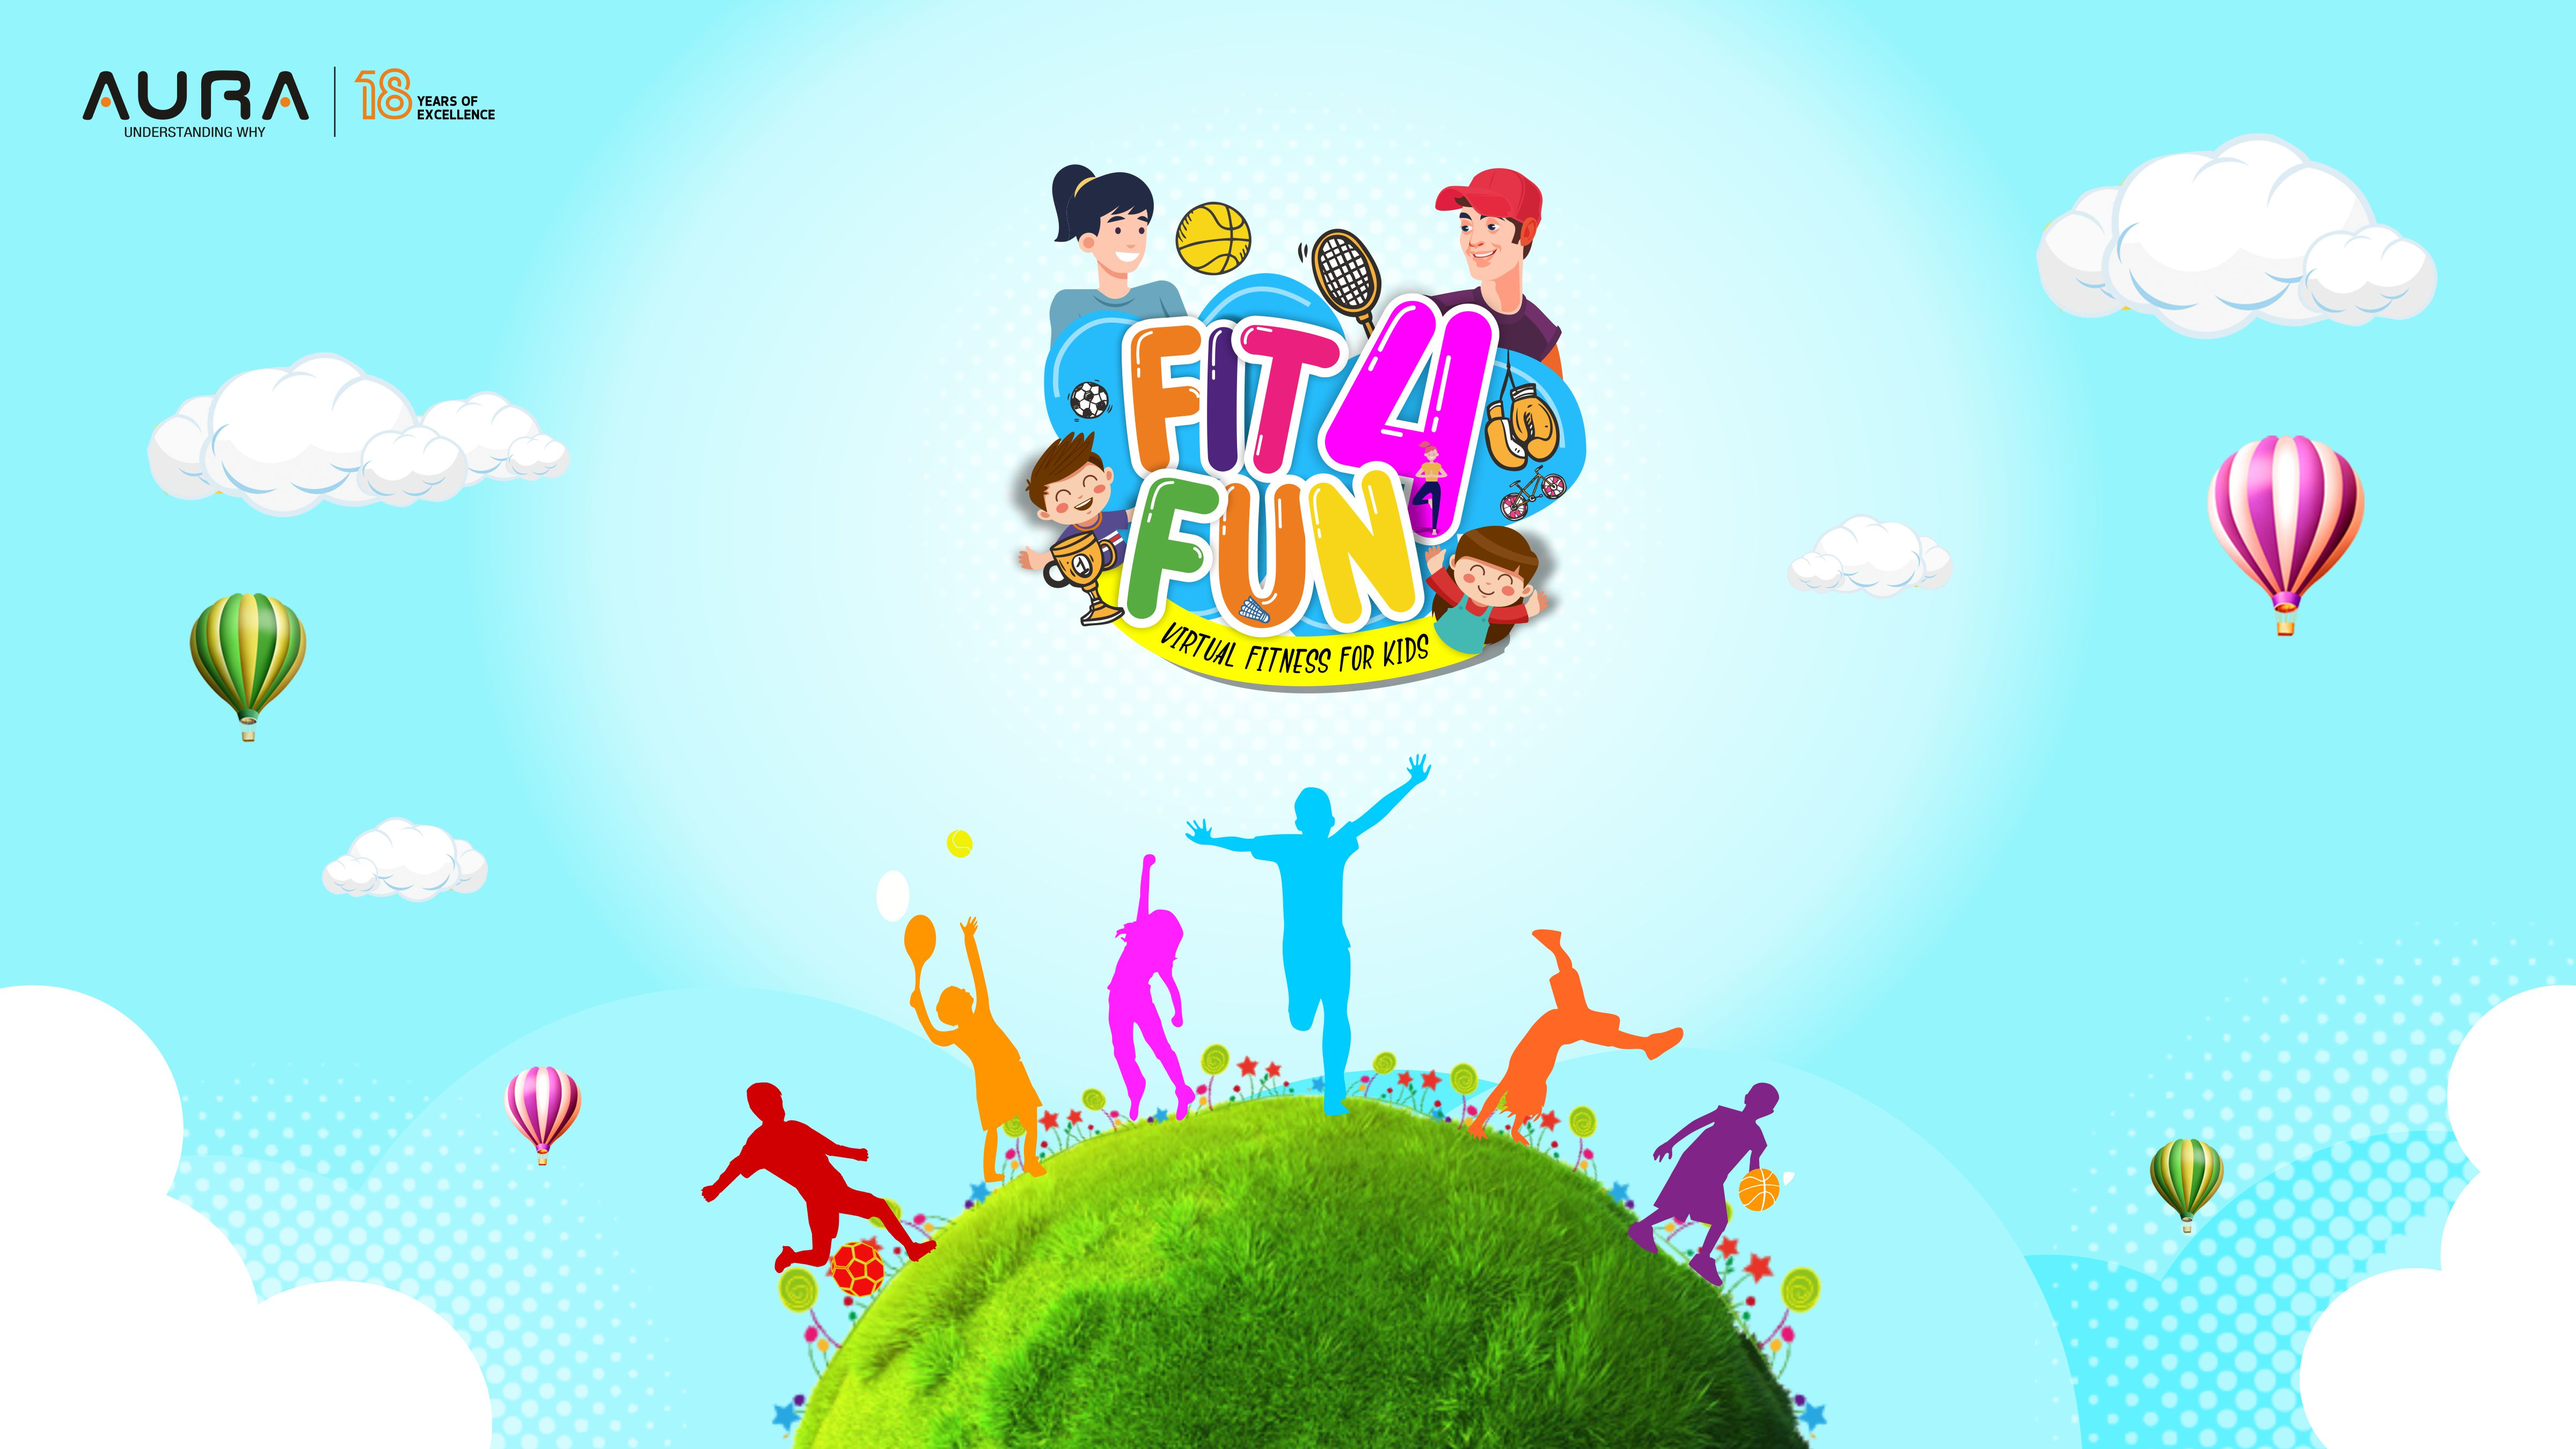
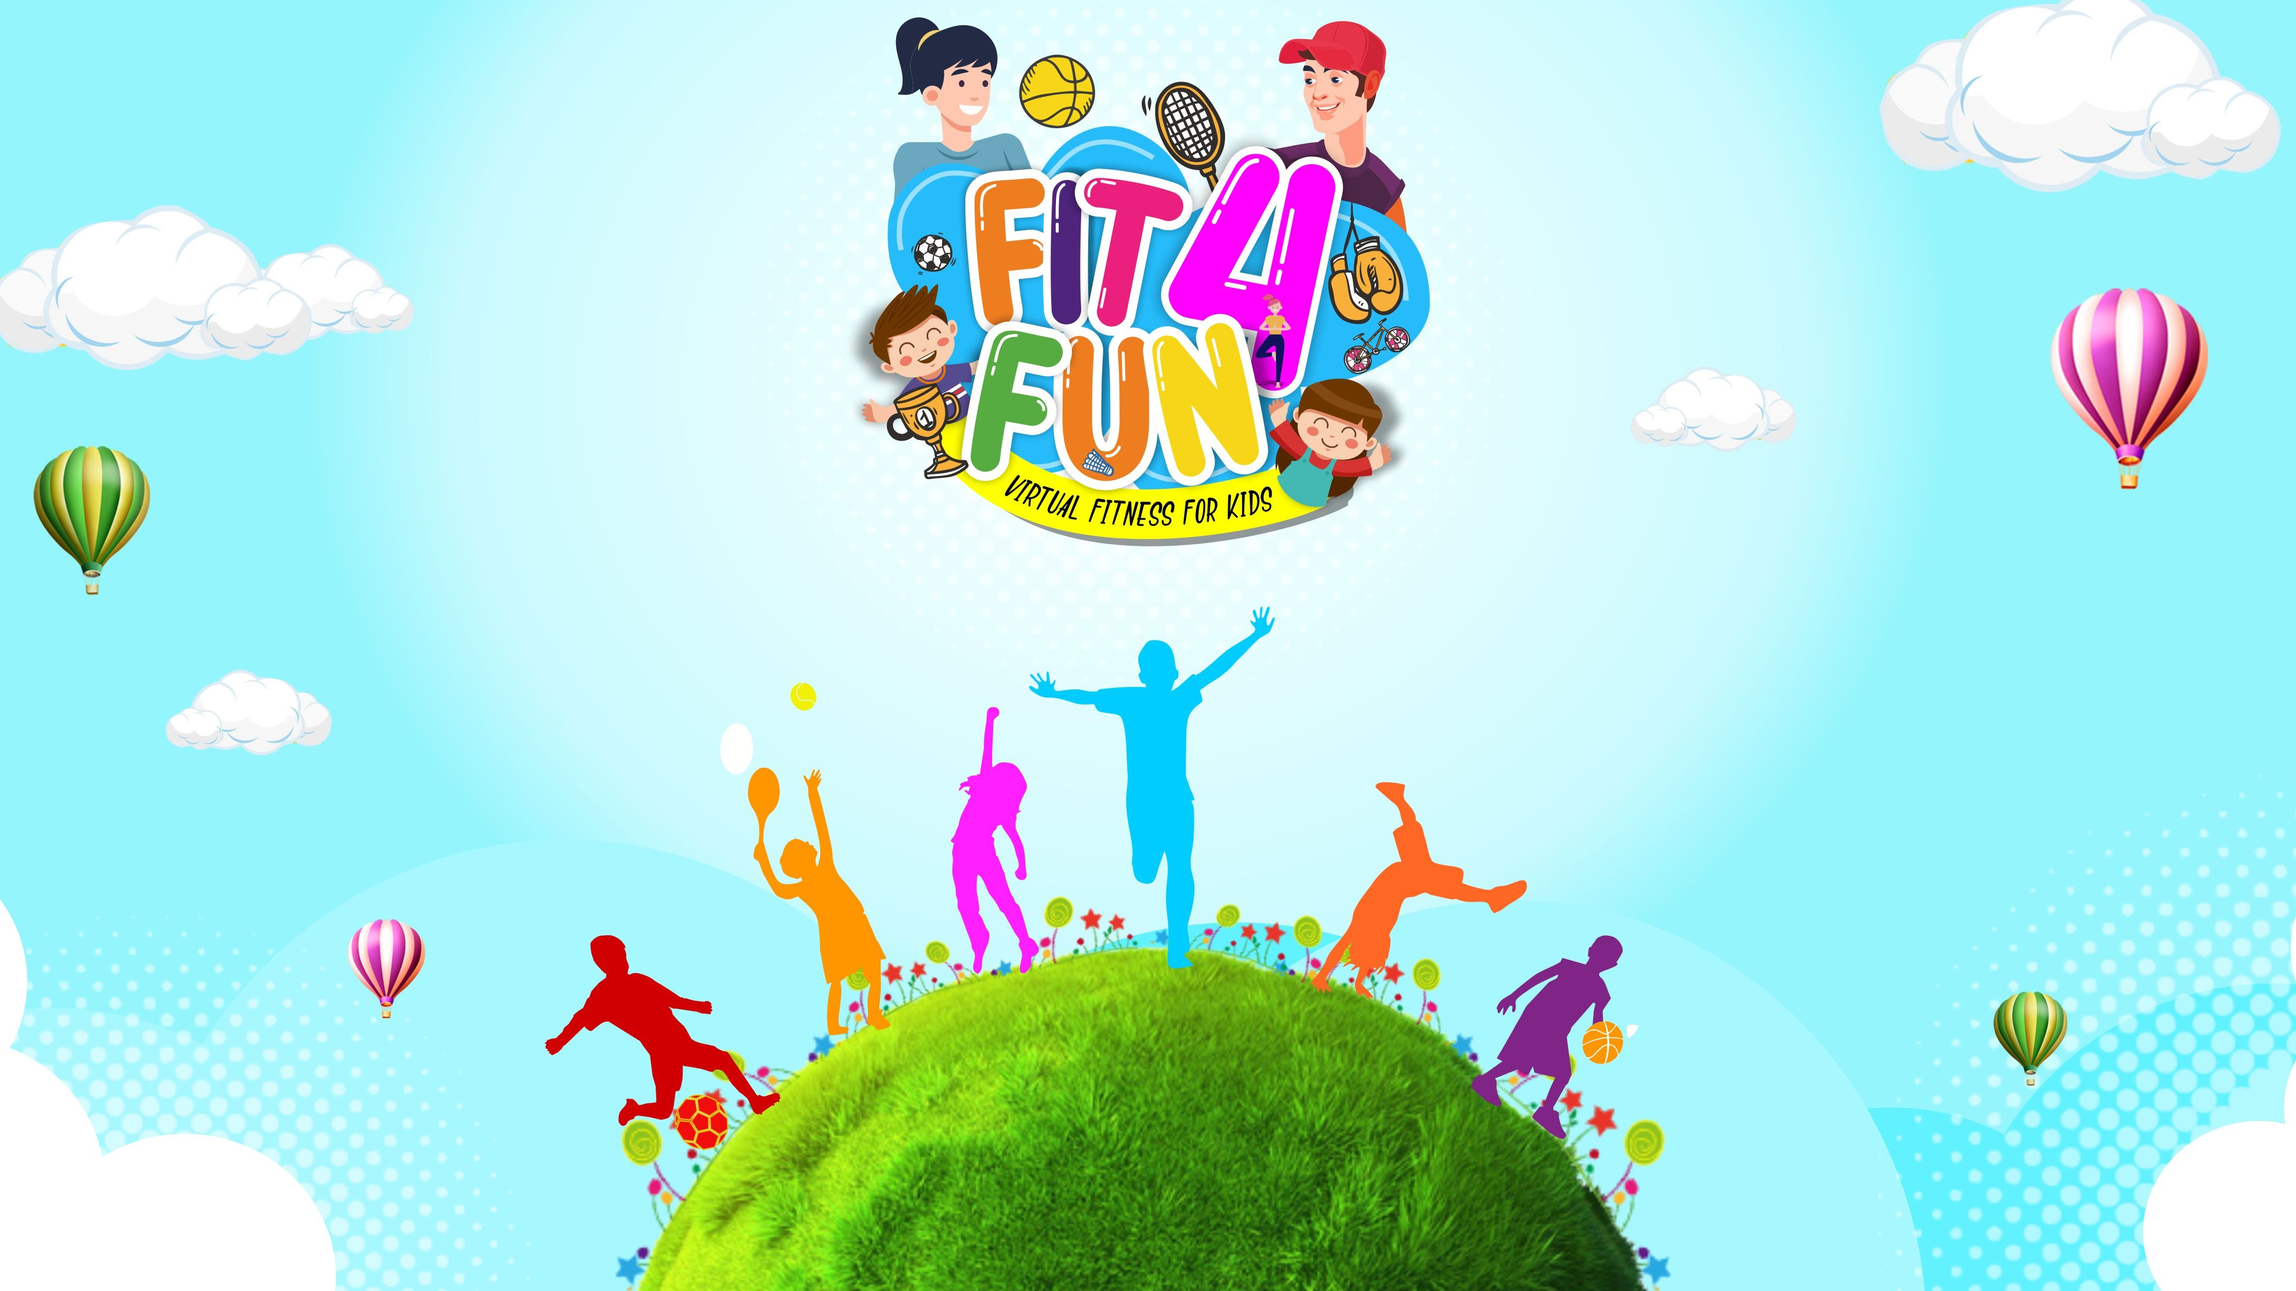
colour figured out

diff --git a/event/css/style.css b/event/css/style.css
@@ -5,7 +5,7 @@ Author: yaminncco
 Colors:
 	Body 		  : #444
 	Headers 	: #0b0f28
-	Primary 	: #dd0a37
+	Primary 	: #03a9f4
 	Dark 		  : #000
 	Grey 		  : #F9F9FA #DADADA
 
@@ -78,7 +78,7 @@ a {
 a:hover, a:focus {
   text-decoration: none;
   outline: none;
-  color: #dd0a37;
+  color: #03a9f4;
 }
 
 ul, ol {
@@ -90,7 +90,7 @@ ul, ol {
 .main-btn {
   display: inline-block;
   padding: 14px 50px;
-  background: #dd0a37;
+  background: #03a9f4;
   color: #FFF;
   text-transform: uppercase;
   border: none;
@@ -120,7 +120,7 @@ textarea.input {
 }
 
 .input:focus {
-  border-color: #dd0a37;
+  border-color: #03a9f4;
 }
 
 /*----------------------------*\
@@ -287,16 +287,16 @@ textarea.input {
   bottom: -3px;
   width: 100%;
   left: 0;
-  background: #dd0a37;
+  background: #03a9f4;
 }
 
 .main-nav li a:hover, .main-nav li a:focus {
   background-color: transparent;
-  color: #dd0a37;
+  color: #03a9f4;
 }
 
 #header.transparent-navbar .main-nav li a:hover {
-  color: #dd0a37;
+  color: #03a9f4;
 }
 
 .navbar-toggle {
@@ -340,7 +340,7 @@ textarea.input {
     color: #0b0f28;
   }
   .main-nav li a:hover, .main-nav li a:focus, .main-nav li.active a {
-    background-color: #dd0a37;
+    background-color: #03a9f4;
     color: #fff !important;
   }
   .navbar-toggle {
@@ -401,7 +401,7 @@ textarea.input {
 .number h3 {
   font-size: 42px;
   margin-bottom: 0px;
-  color: #dd0a37;
+  color: #03a9f4;
 }
 
 .number p {
@@ -451,7 +451,7 @@ textarea.input {
   -ms-transform: translateY(-50%);
   transform: translateY(-50%);
   background: transparent;
-  color: #dd0a37;
+  color: #03a9f4;
   width: 90px;
   height: 90px;
   line-height: 90px;
@@ -514,7 +514,7 @@ textarea.input {
 .speaker .speaker-content {
   position: relative;
   padding: 30px;
-  background: #dd0a37;
+  background: #03a9f4;
   text-align: right;
   z-index: 20;
 }
@@ -546,7 +546,7 @@ textarea.input {
   line-height: 40px;
   text-align: center;
   color: #FFF;
-  background: #dd0a37;
+  background: #03a9f4;
   z-index: 15;
   -webkit-transition: 0.3s opacity;
   transition: 0.3s opacity;
@@ -593,7 +593,7 @@ textarea.input {
   height: 60px;
   line-height: 60px;
   text-align: center;
-  background-color: #dd0a37 !important;
+  background-color: #03a9f4 !important;
   border-radius: 50%;
   padding: 0;
   color: #FFF;
@@ -621,7 +621,7 @@ textarea.input {
 }
 
 .speaker-modal .speaker-modal-content .speaker-job {
-  color: #dd0a37;
+  color: #03a9f4;
 }
 
 .speaker-modal .speaker-modal-content .speaker-social {
@@ -637,7 +637,7 @@ textarea.input {
   text-align: center;
   font-size: 14px;
   border-radius: 50%;
-  background: #dd0a37;
+  background: #03a9f4;
   color: #fff;
   margin-right: 5px;
   -webkit-transition: 0.3s opacity;
@@ -663,7 +663,7 @@ textarea.input {
 }
 
 .speaker-modal .speaker-modal-content .speaker-events .speaker-event>span strong {
-  color: #dd0a37;
+  color: #03a9f4;
 }
 
 /*=========================================================
@@ -685,7 +685,7 @@ textarea.input {
   top: 0px;
   bottom: 0px;
   width: 4px;
-  background-color: #dd0a37;
+  background-color: #03a9f4;
 }
 
 .event:last-child:after {
@@ -699,7 +699,7 @@ textarea.input {
   height: 60px;
   top: -60px;
   width: 4px;
-  background-color: #dd0a37;
+  background-color: #03a9f4;
 }
 
 .event .event-day {
@@ -709,7 +709,7 @@ textarea.input {
   width: 120px;
   height: 120px;
   border-radius: 50%;
-  background: #dd0a37;
+  background: #03a9f4;
   z-index: 10;
 }
 
@@ -720,7 +720,7 @@ textarea.input {
   width: 30px;
   height: 30px;
   border-radius: 50%;
-  background: #dd0a37;
+  background: #03a9f4;
   z-index: 10;
   -webkit-transform: translateX(-50%);
   -ms-transform: translateX(-50%);
@@ -763,11 +763,11 @@ textarea.input {
 }
 
 .event .event-time i {
-  color: #dd0a37;
+  color: #03a9f4;
 }
 
 .event .event-content a {
-  color: #dd0a37;
+  color: #03a9f4;
 }
 
 .download-btn {
@@ -809,7 +809,7 @@ textarea.input {
 }
 
 .contact h3 {
-  color: #dd0a37;
+  color: #03a9f4;
 }
 
 #map {
@@ -841,7 +841,7 @@ textarea.input {
   text-align: center;
   line-height: 120px;
   font-size: 42px;
-  color: #dd0a37;
+  color: #03a9f4;
   cursor: pointer;
 }
 
@@ -877,7 +877,7 @@ textarea.input {
   height: 30px;
   text-align: center;
   border-radius: 50%;
-  background: #dd0a37;
+  background: #03a9f4;
   color: #fff;
   line-height: 30px;
   margin-right: 15px;
@@ -942,7 +942,7 @@ textarea.input {
 .blog .blog-content .read-more {
   display: inline-block;
   padding: 7px 14px;
-  background: #dd0a37;
+  background: #03a9f4;
   color: #FFF;
   text-transform: uppercase;
   border-radius: 2px;
@@ -975,7 +975,7 @@ textarea.input {
   display: inline-block;
   width: 30px;
   height: 30px;
-  background-color: #dd0a37;
+  background-color: #03a9f4;
   color: #FFF;
   border-radius: 50%;
   line-height: 30px;
@@ -1015,7 +1015,7 @@ textarea.input {
 
 .blog .blog-comments .media .media-heading .reply-btn {
   margin-left: 10px;
-  color: #dd0a37;
+  color: #03a9f4;
 }
 
 .blog .blog-reply {

diff --git a/event/index.html b/event/index.html
@@ -224,7 +224,7 @@
 	<!-- Video CTA -->
 	<div id="video-cta" class="section">
 		<!-- background image -->
-		<div class="section-bg" style="background-image:url(./img/background02.jpg)" data-stellar-background-ratio="0.5"></div>
+		<div class="section-bg" style="background-image:url(./img/bruh.png)" data-stellar-background-ratio="0.5"></div>
 		<!-- /background image -->
 
 		<!-- container -->
@@ -237,8 +237,8 @@
 						<a class="video-play video-btn" type="button" data-toggle="modal" data-src="./img/videof4f.mp4" data-target="#myModal">
 							<i class="fa fa-play"></i>
 						</a>
-						<h2>Watch this video</h2>
-						<p class="lead">Lorem ipsum dolor sit amet, consectetur adipisicing elit, sed do eiusmod tempor incididunt ut labore et dolore magna aliqua.</p>
+						<h2 style="color: black;">Watch this video</h2>
+						<p class="lead" style="color: black;">Lorem ipsum dolor sit amet, consectetur adipisicing elit, sed do eiusmod tempor incididunt ut labore et dolore magna aliqua.</p>
 					</div>
 				</div>
 				<!-- /cta content -->
